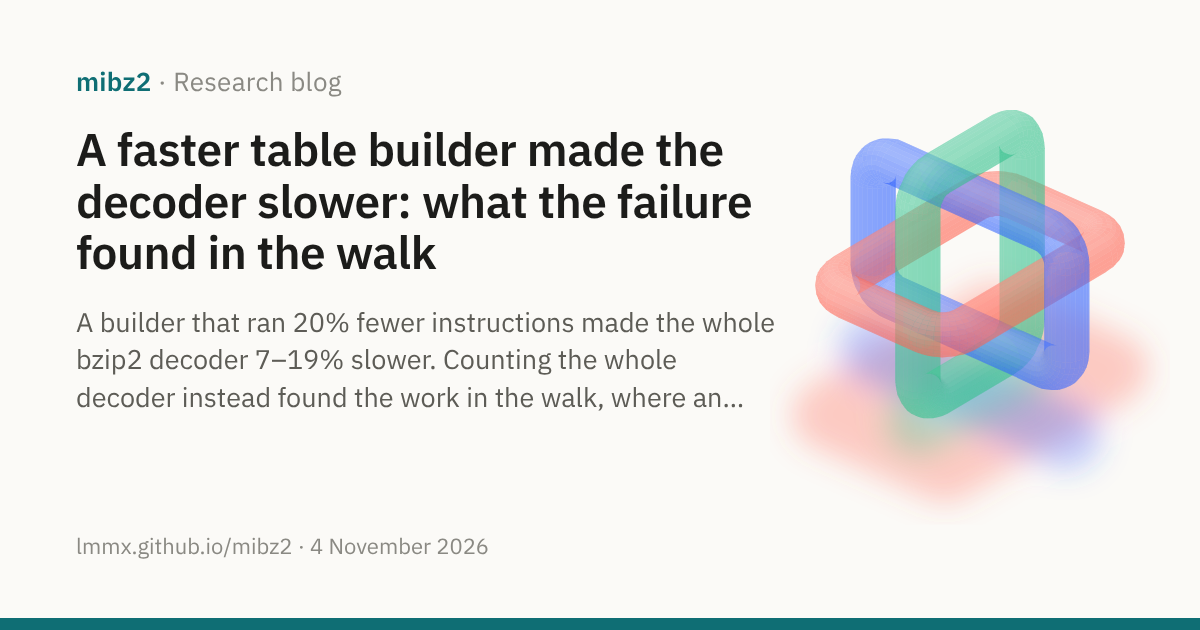
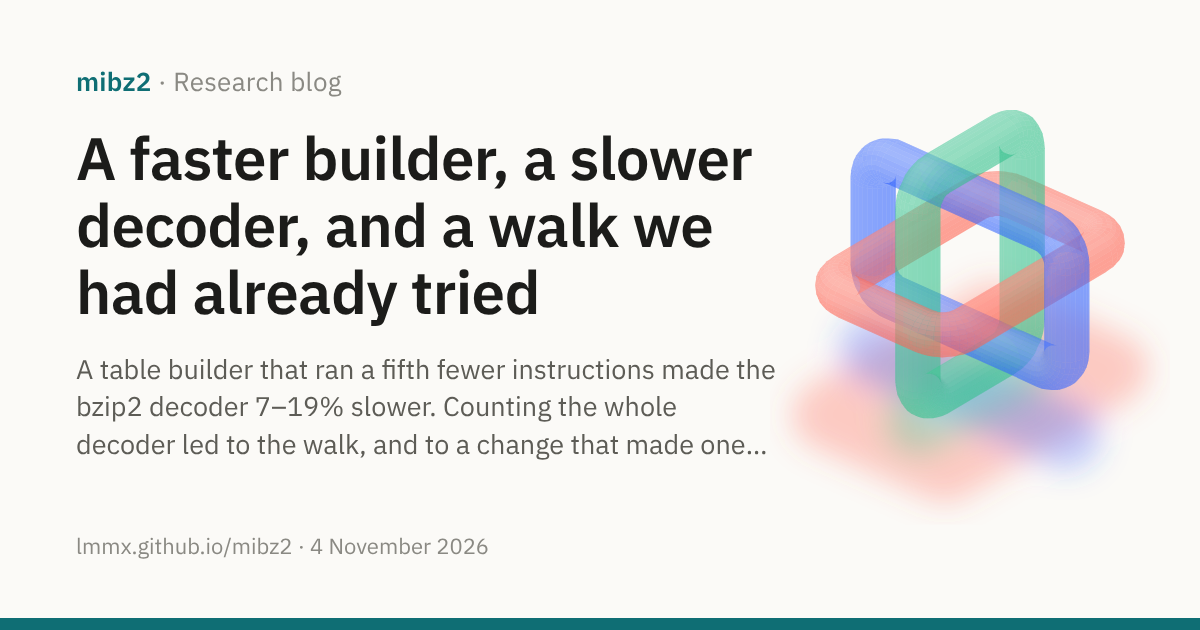
blog: the whole-decoder post rewritten: #157 repeated the 1 November walk-unroll trial and reproduced its shape; withdrawn B2 claims removed; #157's control flag weighed. STEWARDSHIP: prior art retrieved before implementing and before integrating

Changed region(s): [[0.0617, 0.2111, 0.6475, 0.6635], [0.0617, 0.6937, 0.6475, 0.7238]]

diff --git a/docs/site/blog/2026-11-04-whole-decoder.md b/docs/site/blog/2026-11-04-whole-decoder.md
@@ -1,7 +1,7 @@
 ---
-title: "A faster table builder made the decoder slower: what the failure found in the walk"
+title: "A faster builder, a slower decoder, and a walk we had already tried"
 image: assets/social/blog-2026-11-04-whole-decoder.png
-description: "A builder that ran 20% fewer instructions made the whole bzip2 decoder 7–19% slower. Counting the whole decoder instead found the work in the walk, where an unbuilt design from our own record removed a third of it."
+description: "A table builder that ran a fifth fewer instructions made the bzip2 decoder 7–19% slower. Counting the whole decoder led to the walk, and to a change that made one thread 2–4% faster. It repeated an experiment our own record already held, with the same result at four workers."
 ---
 
 <div class="post-hero" markdown>
@@ -11,14 +11,12 @@ description: "A builder that ran 20% fewer instructions made the whole bzip2 dec
 [mibz2 · Research blog](index.md)
 {: .post-kicker }
 
-# A faster table builder made the decoder slower: what the failure found in the walk
+# A faster builder, a slower decoder, and a walk we had already tried
 
-A builder that ran 20% fewer instructions made the whole bzip2 decoder 7–19% slower. Counting
-the whole decoder instead found the work in the walk, where an unbuilt design from our own
-record removed a third of it.
+A table builder that ran a fifth fewer instructions made the bzip2 decoder 7–19% slower. Counting the whole decoder led to the walk, and to a change that made one thread 2–4% faster. It repeated an experiment our own record already held, with the same result at four workers.
 {: .post-dek }
 
-4 November 2026 · 10 min read · [Research in progress](#6-what-is-still-open)
+4 November 2026 · 11 min read · [Research in progress](#7-what-is-still-open)
 {: .post-meta }
 
 </div>
@@ -35,7 +33,9 @@ builder it replaced.
 
 This post is about what happened when we put it into the production decoder. The decoder got
 slower. Understanding why led to a change in the production decoder itself, one that leaves its
-table exactly as it was and removes a fifth of the instructions it spends on each block.
+table exactly as it was and removes a fifth of the instructions it spends on each block. It
+made one thread faster and four no faster. Then we found that our own record had already run
+that experiment, and had said so.
 
 ## 1. Three phases, one budget
 
@@ -99,19 +99,11 @@ fixed in the project's rules: every candidate is counted across the whole decode
 production before it goes near a pull request, and local timing is never the reason to open
 one.
 
+
 ## 3. Looking at the walk itself
 
 If the walk is three-fifths of the work, the question is no longer how to build a table more
-cheaply. It is what the production walk spends on each step. That question was already in our
-own record. [32 lanes, 8.6 chains](2026-10-31-room-walk-overlap.md) had proposed "Path B": the
-walk already overlaps its memory lookups well enough, so spend fewer instructions on each step
-and keep all 32 chains. A read-only analysis from 30 October, B2 (linked below), had gone
-further. It counted the shipped loop at 14.8 operations per byte, designed a kernel B ("the
-same 32 scalar chains with deferred flags and tiled commits") at 8–9, and fitted a model
-predicting what B would buy on each of CI's processors. Nobody had built it.
-
-We came to it from the profiles, and only then recognised it as B. Here is what the profiles
-showed.
+cheaply. It is what the production walk spends on each step.
 
 Callgrind can count every instruction separately. Here is the production walk's hot loop, as
 the compiler emitted it, with the count of each instruction on that block:
@@ -192,11 +184,7 @@ several lanes reaching segment ends in the same round, and the queue running out
 lanes still waiting, after a handover, and with a later lane already stepped onto its own
 segment's end. It fails if the offsets the tail picks up from are changed.
 
-That is kernel B, nine instructions a step against B2's predicted eight to nine. It is as large
-a cut in whole-decoder instructions as anything the campaign has found. It leaves the table as
-it was, so it composes with whatever else is done to the walk.
-
-## 5. Instructions are not time, and the model was wrong about how much
+## 5. Instructions are not time
 
 The continuous-integration benchmark measured it twice, on the same walk machine code, landing
 on two different processors. The Wikidata corpus, paired over ten rounds each:
@@ -207,56 +195,91 @@ on two different processors. The Wikidata corpus, paired over ten rounds each:
 | 2 | +2.2% (−0.6%, +5.1%) | −4.9% (−9.5%, −0.1%) |
 | 4 | +0.4% (−2.8%, +3.8%) | +0.2% (−2.1%, +2.7%) |
 
-At one thread it is faster on both. With more threads, the picture depends on the machine.
+At one thread it is faster on both. At four, the configuration a full decode uses, neither
+machine shows a gain. On the 7763 the benchmark also times each stage on one thread: the walk
+went from 4.04 to 3.78 cycles per byte, a ratio of 0.925 (0.856 to 0.999). A 36% cut in the
+walk's instructions bought about 7.5% of its time on one thread, and nothing measurable on the
+decoder at four.
 
-On the 7763 the benchmark also times each stage on one thread. The walk went from 4.04 to 3.78
-cycles per byte, a ratio of 0.925 (0.856 to 0.999). A 36% cut in instructions bought 7.5% of
-the walk's time.
+The benchmark covers six other corpora as controls. One of them moved the wrong way. On the
+7763, `pattern`, a short repeating input, was 1.6% slower at one thread (+0.1% to +3.1%). Its
+CPU interval included no change, and on the 9V45 the same row was 5.3% *faster* (−6.8% to
+−3.8%). With 21 wall rows a run, a flag like that can be chance. It can also be a real cost on
+one kind of core. It hasn't been reproduced either way, and until it has, it is a trade-off to
+weigh, not a regression we can rule out.
 
-B2 had predicted much more. Its best-supported model gives a step's time as its issue time
-plus a miss penalty limited by the processor's window: w = U/D + ℓ·U/R. For the 7763 it
-predicted B's walk at 0.73 to 0.76 of A's, and −10% to −11% of decoder time. The measurement
-lies outside that range. So does the reading in which the walk is limited purely by its
-instruction rate (0.55 to 0.65). What it doesn't exclude is the remaining hypothesis B2
-listed: the walk is capped by how many outstanding misses one core can track, so fewer
-instructions per step can't make it much faster (0.95 or more).
+## 6. We had run this experiment before
 
-That is a useful negative result. It says the walk on this machine is close to limited by its
-memory requests, not its instructions. The next large gains would then have to come from
-fewer misses per byte, not fewer instructions per step.
+On 1 November, three days earlier, a registered trial had unrolled the same walk. It wrote all
+32 lane steps out with fixed offsets, and [the 2 November post on memory-level
+parallelism](2026-11-02-memory-level-parallelism.md) reported it:
 
-## 6. What is still open
+| | 1 November trial | This change (#157) |
+| --- | --: | --: |
+| Instructions per lane step | 16.4 → 10.44 | 16 → 9 |
+| Walk alone, EPYC 7763 | 0.877 (0.863–0.891), isolated walk | 0.925 (0.856–0.999), stage timing |
+| Decoder, one worker | +1.7% throughput (i9-10900K) | −2.4% to −4.2% wall (CI) |
+| Decoder, four workers | 1.000 (0.987–1.012) (i9-10900K) | +0.2% to +0.4% wall, neither interval clear of zero (CI) |
+| A control costing more | `records`: +1.8% CPU at four workers | `pattern`: +1.6% wall at one thread, 7763 only |
+| Verdict | negative, at four workers | met the one-thread merge gate |
 
-**Shipping.** The change met the merge gate. The one-thread gain was confirmed on two
-processors, with nothing regressing beyond a small, unreplicated slip on one synthetic corpus.
-It is now on master, unreleased.
+The two changes are not identical. #157 unrolls eight lanes a turn rather than all 32, and
+defers the handovers to a mask. The machines and harnesses differ too, so the rows are not a
+paired comparison. But the shape is the same: a large cut in instructions, a small gain on
+one worker, none on four, and a control workload that got more expensive. The earlier trial's
+exploratory CI rows at one worker were, if anything, larger than #157's: +17.9% throughput on
+the 9V45 and +8.1% on the 7763.
 
-**Why B2's model overestimated.** Either the miss term isn't ℓ·U/R as fitted, or the
-latency of each miss rises when more are in flight, as B2's own risks list. B puts more
-misses in flight than A. A refit to A and B together, which can now both be measured, should
-say which term has to move.
+So the record already said what #157 would find. We didn't read it before building. A search
+for "unroll" found the trial, but its output was cut short before the table that held the
+result, and nothing required the decisive evidence to be read before implementation began. Our
+independent agents recovered it, but only after the merge.
 
-**Why the multi-thread result depends on the machine.** On the 9V45, two threads lost the
-gain; on the 7763 they kept it. There are several candidates:
-- **A shared bottleneck.** Something shared across copies may bind.
-- **The run's shape.** The benchmark's two-thread run puts four threads (two workers, the
-  scanner and the reader) on two CPUs.
-- **Interference.** It may be the effect [Investigating inverse-BWT memory
-  interference](2026-11-01-inverse-bwt-memory-interference.md) measured on a four-core
-  machine. That post proposed causes and tests, but didn't settle the cause. CI's four-thread
-  runs are two cores with SMT, not four cores.
+Two earlier claims in drafts of this post are withdrawn. The first said the change is the
+"kernel B" that an analysis from 30 October, B2, had designed and priced. It isn't. B2's kernel
+B buffers eight successive steps per lane and commits them eight bytes at a time, replaying a
+tile that fails. #157 writes every byte as it goes and unrolls across lanes, not steps. Kernel
+B remains unbuilt. The second claim was that the 7763's walk figure rejected B2's model of the
+walk's time. It can't: the model's predictions were for kernel B, and the stage figure includes
+segment assembly, which B2's boundary excludes. The model is untested.
 
-The cheapest decisive experiment is the falsifier B2 described: time the walk alone, A against
-B, at one copy, two copies on separate cores, and on the two siblings of one core, on each
-machine.
+## 7. What is still open
+
+**Shipping.** The change met the merge gate, a one-thread gain beyond noise confirmed on two
+processors, and is on master, unreleased. It does not meet the campaign's goal, which is a
+faster decoder at four workers. Before a release carries it, the `pattern` flag will be
+measured again on a 7763.
+
+**Why more workers erase the gain.** Both trials now agree that it disappears, on three kinds
+of machine. The earlier trial's explanation, pressure on the load-address ports, came from a
+static model, not a measurement. Three readings make different predictions:
+- **a limit private to each core,** such as how many misses it can track: SMT pairs lose the
+  gain first;
+- **a penalty shared across cores:** the gain shrinks towards nothing as copies are added,
+  whether or not they share a core;
+- **higher latency for every miss as more are in flight:** the ratio between the two walks
+  holds as copies are added.
+
+The experiment that separates them times the walk alone, the old against the new, at one copy,
+two copies on separate cores, and two on the siblings of one core, on each machine. [Memory
+interference](2026-11-01-inverse-bwt-memory-interference.md) measured a related effect on a
+four-core machine, about 30% more cycles at four workers for 1.3% more instructions, without
+settling its cause. CI's four-thread runs are two cores with SMT, not four cores.
+
+**What fewer instructions can't buy.** Two experiments have now cut the walk's instructions by
+more than a third, and neither gained at four workers. The next gains at four are more likely
+to come from fewer misses per byte, or from overlapping them better across cores, than from
+fewer instructions per step. That is a hypothesis, and the experiment above is what tests it.
 
 **The other walks.** The cooperative walk, used on machines with many cores, and the flagged
-walk carry the same rolled loop. Whether to port the change waits on that experiment.
+walk carry the same rolled loop. Porting the change waits on that experiment.
 
-The lesson is about memory as much as measurement. A faster builder made the decoder slower
-because nobody had counted the walk. Counting it found a change our own analysis had designed
-and priced, and then left unbuilt. Building it tested the analysis, and part of it failed. The project's record is now treated as working memory:
-every new direction starts from what earlier analyses proposed, measured or left untested.
+The lesson is about memory. A faster builder made the decoder slower because nobody had
+counted the walk. Counting it led to a change our own record had already tried, and the record
+had the answer we went on to rediscover. The project now retrieves a candidate's prior record
+before building it and again before integrating it, reading the results themselves rather
+than a search excerpt. The pull request then says whether the work is new or a re-test, and
+what could change the earlier verdict.
 
 ---
 
@@ -265,8 +288,12 @@ write-up](https://github.com/lmmx/mibz2/blob/8abefea4/docs/journal/2026-11-04-co
 · [Its profiles](https://github.com/lmmx/mibz2/tree/c493a45d/docs/journal/compact30-channel/evidence/port-b4786f66)
 · [The walk change, PR #157](https://github.com/lmmx/mibz2/pull/157) · [Its profiles, listings
 and tests](https://github.com/lmmx/mibz2/tree/b0f6e89d/docs/journal/compact30-channel/evidence/walk-75b13f00)
+· [The 1 November walk-unroll trial: decoder
+results](https://github.com/lmmx/mibz2/blob/270333c2d32fe16dc24ae7ab64f3697d87939418/docs/journal/2026-11-01-walk-unroll-decoder-i9-10900K/results.md)
+· [Its assembly
+comparison](https://github.com/lmmx/mibz2/blob/270333c2d32fe16dc24ae7ab64f3697d87939418/docs/journal/2026-11-01-walk-unroll-astra-fidelity/README.md)
 · [B2, the gathered walk: the model and kernel
 B](https://github.com/lmmx/mibz2/blob/9723f068/docs/journal/2026-10-30-b2-gathered-walk.md)
-· [The research register](https://github.com/lmmx/mibz2/blob/4dac7abc/docs/journal/2026-10-30-research-portfolio-register.md)
+· [The research register, §6](https://github.com/lmmx/mibz2/blob/3ace9d33/docs/journal/2026-10-30-research-portfolio-register.md)
 · [Whole-decoder accounting, charter
 §5.6](https://github.com/lmmx/mibz2/blob/45e6cfeb/docs/journal/2026-11-04-compact30-research-charter.md)

diff --git a/docs/site/blog/index.md b/docs/site/blog/index.md
@@ -8,7 +8,7 @@ What mibz2's experiments are finding, and where they go next. The evidence behin
 post is in the [journals](../background/journals.md) and the pull requests they link.
 
 <div class="post-list">
-<a class="post-card" href="2026-11-04-whole-decoder.md"><img src="../assets/social/blog-2026-11-04-whole-decoder.png" alt="" loading="lazy"><span class="post-card-text"><span class="post-card-date">4 November 2026 · Research in progress</span><span class="post-card-title">A faster table builder made the decoder slower: what the failure found in the walk</span><span class="post-card-dek">A builder that ran 20% fewer instructions made the whole bzip2 decoder 7–19% slower. Counting the whole decoder instead found the work in the walk, where an unbuilt design from our own record removed a third of it.</span></span></a>
+<a class="post-card" href="2026-11-04-whole-decoder.md"><img src="../assets/social/blog-2026-11-04-whole-decoder.png" alt="" loading="lazy"><span class="post-card-text"><span class="post-card-date">4 November 2026 · Research in progress</span><span class="post-card-title">A faster builder, a slower decoder, and a walk we had already tried</span><span class="post-card-dek">A table builder that ran a fifth fewer instructions made the bzip2 decoder 7–19% slower. Counting the whole decoder led to the walk, and to a change that made one thread 2–4% faster. It repeated an experiment our own record already held, with the same result at four workers.</span></span></a>
 <a class="post-card" href="2026-11-04-autonomous-agent-team.md"><img src="../assets/social/blog-2026-11-04-autonomous-agent-team.png" alt="" loading="lazy"><span class="post-card-text"><span class="post-card-date">4 November 2026 · Meta</span><span class="post-card-title">Call on mibz2: cutting instructions from bzip2 decoding with an autonomous swarm</span><span class="post-card-dek">Each of four agents does one part of the research. A GitHub doorbell lets them hand work to each other directly, without me acting as their message bus.</span></span></a>
 <a class="post-card" href="2026-11-04-compact30-constructor.md"><img src="../assets/social/blog-2026-11-04-compact30-constructor.png" alt="" loading="lazy"><span class="post-card-text"><span class="post-card-date">4 November 2026 · Research in progress</span><span class="post-card-title">Building a smaller bzip2 decoding table: from 49 instructions to 12</span><span class="post-card-dek">Writing a cheap placeholder for each row, and finishing each 30-row group once, shrank the inner loop. It still builds too slowly.</span></span></a>
 <a class="post-card" href="2026-11-02-revisiting-space-time-tradeoff-bwt-inversion.md"><img src="../assets/social/blog-2026-11-02-revisiting-space-time-tradeoff-bwt-inversion.png" alt="" loading="lazy"><span class="post-card-text"><span class="post-card-date">2 November 2026 · Research result</span><span class="post-card-title">Revisiting the space–time tradeoff in BWT inversion</span><span class="post-card-dek">A packed table saved memory but cost too much to read. A cheaper compact lookup gives the first positive traversal result.</span></span></a>

diff --git a/docs/STEWARDSHIP.md b/docs/STEWARDSHIP.md
@@ -54,6 +54,23 @@ not only the part a campaign optimised.
 PR #155 is why: its constructor saved 19.5% of its instructions, its walk added 31%, and CI
 measured the decoder 7–19% slower.
 
+**Before implementing a candidate, and again before integrating it,** retrieve its prior record
+(Louis, 2026-11-04). The record is the research blog and the research register
+(`docs/research-portfolio`).
+- **Read the decisive evidence itself,** the results table, the verdict and the controls,
+  never a truncated search excerpt. Recover the mechanism, earlier implementations, measured
+  outcomes, grounds for rejection and outstanding falsifiers.
+- **The PR says** whether the change is a new construction or a re-test of a line already
+  tried, and what in it could change the earlier verdict.
+- **At the merge,** weigh every flagged row, the controls included. A regression the bench
+  didn't detect isn't thereby harmless, and a flagged one is weighed, not waved through.
+  Passing the gate is not the same as meeting the standing objective.
+- **This is sequencing, not permission.** The steward doesn't wait for other agents to do it.
+
+PR #157 is why: it repeated the 1 November walk-unroll trial (one-worker gain, none at four,
+a control costing more) without citing it. The record had the result. Its search had been cut
+short before the table that held it.
+
 **Docs-only and measurement-only changes** merge when CI is green and nothing measured
 changed that wasn't meant to.
 
